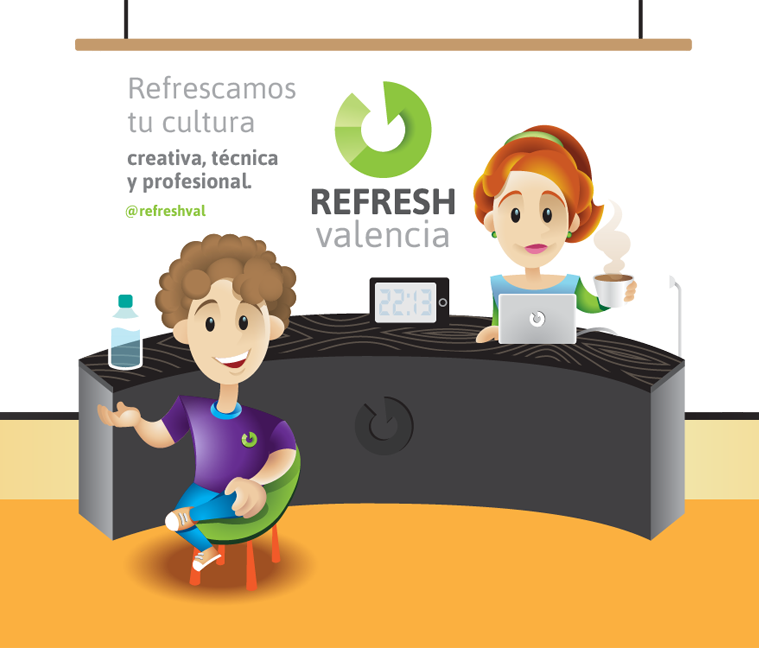
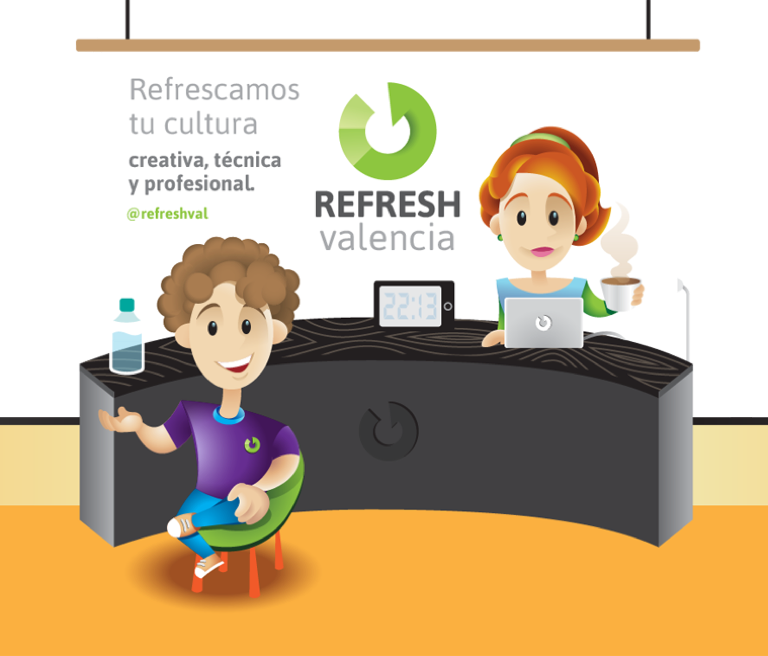
Media queries for mobile devices

diff --git a/css/custom.css b/css/custom.css
@@ -1,1 +1,1 @@
-html,body,div,span,applet,object,iframe,h1,h2,h3,h4,h5,h6,p,blockquote,pre,a,abbr,acronym,address,big,cite,code,del,dfn,em,img,ins,kbd,q,s,samp,small,strike,strong,sub,sup,tt,var,b,u,i,center,dl,dt,dd,ol,ul,li,fieldset,form,label,legend,table,caption,tbody,tfoot,thead,tr,th,td,article,aside,canvas,details,embed,figure,figcaption,footer,header,hgroup,menu,nav,output,ruby,section,summary,time,mark,audio,video{margin:0;padding:0;border:0;font-size:100%;font:inherit;vertical-align:baseline}article,aside,details,figcaption,figure,footer,header,hgroup,menu,nav,section{display:block}body{line-height:1}ol,ul{list-style:none}blockquote,q{quotes:none}blockquote:before,blockquote:after{content:'';content:none}q:before,q:after{content:'';content:none}table{border-collapse:collapse;border-spacing:0}*{box-sizing:border-box}.grid{margin:0 0 20px 0;overflow:hidden}[class*='cols-']{float:left;padding-right:20px}@media only screen and (max-width: 480px){[class*='cols-']{padding-right:0}}.grid [class*='cols-']:last-of-type{padding-right:0}.cols-2-3{width:66.66%}@media only screen and (max-width: 480px){.cols-2-3{width:100%}}.cols-1-3{width:33.33%}@media only screen and (max-width: 480px){.cols-1-3{width:100%}}.cols-1-2{width:50%}@media only screen and (max-width: 480px){.cols-1-2{width:100%}}.cols-1-4{width:25%}@media only screen and (max-width: 480px){.cols-1-4{width:100%}}.cols-2-4{width:50%}@media only screen and (max-width: 480px){.cols-2-4{width:100%}}.cols-1-1{width:100%}.container{padding:20px}.grid-pad{padding:20px 0 20px 20px}.grid-pad [class*='col-']:last-of-type{padding-right:20px}.button{padding:0 0.5em;height:1.50em;display:inline-block;font:normal 2.5em/1.5em "Bree Serif",Tahoma,Arial,serif;text-transform:uppercase;text-decoration:none;text-align:center;letter-spacing:0.2em;box-sizing:border-box;-webkit-border-radius:0.25em;-moz-border-radius:0.25em;border-radius:0.25em;background-color:black;color:white;cursor:pointer;width:100%}.button:hover{color:#000}.large{margin:14px auto 0;max-width:700px;height:60px;line-height:1.9em;font-size:2em;padding:0}.large img{height:50px;position:absolute;margin:0.15em 0 0 -3em}.medium{margin-top:1.4em;max-width:360px;box-shadow:0em 0.333em 0em #005919;filter:progid:DXImageTransform.Microsoft.dropshadow(OffX=0, OffY=4, Color='#005919', Positive='true')}@media only screen and (max-width: 1400px){.medium{max-width:308px}}@media only screen and (max-width: 1200px){.medium{max-width:266px}}@media only screen and (max-width: 1024px){.medium{max-width:220px;font-size:2em}}@media only screen and (max-width: 768px){.medium{max-width:135px;font-size:1.2em;margin-top:3em}}@media only screen and (max-width: 768px){.medium{margin:0 0.2em}}.small{max-width:220px;max-height:50px;font-size:1em}.green{background-color:#009B2D}.green:hover{background-color:#0ea93b}.orange{background:#fac695;background:-moz-linear-gradient(top, #fac695 0%, #f5ab66 47%, #ef8d31 100%);background:-webkit-gradient(linear, left top, left bottom, color-stop(0%, #fac695), color-stop(47%, #f5ab66), color-stop(100%, #ef8d31));background:-webkit-linear-gradient(top, #fac695 0%, #f5ab66 47%, #ef8d31 100%);background:-o-linear-gradient(top, #fac695 0%, #f5ab66 47%, #ef8d31 100%);background:-ms-linear-gradient(top, #fac695 0%, #f5ab66 47%, #ef8d31 100%);background:linear-gradient(to bottom, #fac695 0%, #f5ab66 47%, #ef8d31 100%);filter:progid:DXImageTransform.Microsoft.gradient(startColorstr='#fac695', endColorstr='#ef8d31',GradientType=0 );box-shadow:inset 0 1px 0 rgba(255,255,255,0.15),0 1px 3px rgba(0,0,0,0.3)}.orange:hover{background:#f9b97c;background:-moz-linear-gradient(top, #f9b97c 0%, #f49644 47%, #ed7e17 100%);background:-webkit-gradient(linear, left top, left bottom, color-stop(0%, #f9b97c), color-stop(47%, #f49644), color-stop(100%, #ed7e17));background:-webkit-linear-gradient(top, #f9b97c 0%, #f49644 47%, #ed7e17 100%);background:-o-linear-gradient(top, #f9b97c 0%, #f49644 47%, #ed7e17 100%);background:-ms-linear-gradient(top, #f9b97c 0%, #f49644 47%, #ed7e17 100%);background:linear-gradient(to bottom, #f9b97c 0%, #f49644 47%, #ed7e17 100%);filter:progid:DXImageTransform.Microsoft.gradient(startColorstr='#f9b97c', endColorstr='#ed7e17',GradientType=0 )}html,body{font-size:16px;background-color:#faf6f4;color:#352a25;font-family:"Fanwood Text", Times, serif;transitions:all 350ms easy-in-out}h2{font:normal 3.2em/1.1em "Titan One",Tahoma,Arial,serif}p,h3{font-size:1.2em;line-height:1.5em;color:#53423a;text-align:left}h3{font-size:2em;line-height:1.1em;margin:0.2em 0 0.5em}a{color:#b84d21;text-decoration:none}a:hover{color:#352a25}sup{font-size:0.6em;line-height:0;position:relative;top:-0.5em;vertical-align:baseline}#refresh-logo{background:url("../images/refresh-logo.png") no-repeat;background-size:cover;width:393px;height:146px;text-indent:-9999px}#refresh-logo:hover{opacity:0.8}@media only screen and (max-width: 768px){#refresh-logo{width:290px;height:107px}}@media only screen and (max-width: 480px){#refresh-logo{width:100%;margin:1em auto 0}}.social{position:relative;top:0.5em;right:6.5em;float:right}@media only screen and (max-width: 480px){.social{right:1.5em}}.social li{display:inline}.social .fb{background:url(../images/fb.png) no-repeat;height:32px;width:32px;float:left;margin-right:10px;text-indent:-9999px}.social .tw{background:url(../images/tw.png) no-repeat;height:32px;width:32px;float:left;text-indent:-9999px}header.container{padding-left:10em}@media only screen and (max-width: 480px){header.container{padding-left:0}}#illustration{background:#c64426 url("../images/refresh-nature.png") no-repeat;background-size:contain;height:520px;text-indent:-9999px;z-index:5}#illustration .refresh{width:100%;margin:0 auto;position:absolute}#illustration .refresh.stage{background:url("../images/refresh-stage.png") no-repeat;background-size:contain;height:500px;text-indent:-9999px;z-index:10}#illustration .refresh.people{background:url("../images/refresh-people.png") repeat-x;height:154px;margin:21em 0 0;text-indent:-9999px;z-index:15}.content{border-bottom:10px solid #EEC47A}#maps{height:400px;margin:0 auto;position:relative}#maps iframe{display:block;height:100%;width:100%;z-index:10}#maps p{background:#faf6f4;text-align:center;margin:-19em 0 0 34em;padding:0 20px 20px;position:relative;width:30%;z-index:15}@media only screen and (max-width: 800px){#maps p{margin:-19em 0 0 30em}}#maps p a{color:#faf6f4;display:block;text-align:center;text-shadow:0 1px 3px rgba(0,0,0,0.2)}#maps p a:hover{text-shadow:0 1px 3px rgba(0,0,0,0.5)}.spacer{margin:16px 0 0}.rules{background:url(../images/rules.png) no-repeat;width:100%;height:290px;background-size:cover;text-indent:-9999px}#agenda{padding-right:50px}#agenda li{border-bottom:1px dashed #352a25;font-size:1.5em;line-height:1.4em;margin:0 0 16px;padding:3px 0 14px 125px;position:relative}#agenda h6{background:url(../images/clock.png) 0 center no-repeat;font-size:0.87em;margin:0 0 5px;padding:0 0 0 35px;left:0;position:absolute;top:2px;text-transform:uppercase;font:bold 0.8em/1.9em "Helvetica Neue",Helvetica,Arial,serif}.sponsor li{width:100%;height:150px;padding:10px;background:#faf9f8;border:2px solid #e5ddda;width:23%;margin:0 2% 2% 0;float:left;display:block}.sponsor li:hover{background:#dbd0cb;border:2px solid #bba79e}.sponsor li img{width:100%;margin:1.2em auto}.pic-link{font-size:1.5em;padding-right:20px;line-height:2.5em}#main-footer{background:#352a25;height:130px;margin:0}#main-footer a:hover{color:#faf6f4}#main-footer h3{font-size:1.5em;color:#faf6f4}#main-footer p{font-size:1.1em;color:#faf6f4}.top-pointer{background:url(../images/arrow.png) no-repeat;position:absolute;right:10px;width:96px;height:96px;margin:-4.5em 0 0;text-indent:-9999px}.top-pointer:hover{opacity:0.8}
+html,body,div,span,applet,object,iframe,h1,h2,h3,h4,h5,h6,p,blockquote,pre,a,abbr,acronym,address,big,cite,code,del,dfn,em,img,ins,kbd,q,s,samp,small,strike,strong,sub,sup,tt,var,b,u,i,center,dl,dt,dd,ol,ul,li,fieldset,form,label,legend,table,caption,tbody,tfoot,thead,tr,th,td,article,aside,canvas,details,embed,figure,figcaption,footer,header,hgroup,menu,nav,output,ruby,section,summary,time,mark,audio,video{margin:0;padding:0;border:0;font-size:100%;font:inherit;vertical-align:baseline}article,aside,details,figcaption,figure,footer,header,hgroup,menu,nav,section{display:block}body{line-height:1}ol,ul{list-style:none}blockquote,q{quotes:none}blockquote:before,blockquote:after{content:'';content:none}q:before,q:after{content:'';content:none}table{border-collapse:collapse;border-spacing:0}*{box-sizing:border-box}.grid{margin:0 0 20px 0;overflow:hidden}[class*='cols-']{float:left;padding-right:20px}@media only screen and (max-width: 480px){[class*='cols-']{padding-right:0}}.grid [class*='cols-']:last-of-type{padding-right:0}.cols-2-3{width:66.66%}@media only screen and (max-width: 768px){.cols-2-3{width:100%}}.cols-1-3{width:33.33%}@media only screen and (max-width: 768px){.cols-1-3{width:100%}}.cols-1-2{width:50%}@media only screen and (max-width: 768px){.cols-1-2{width:100%}}.cols-1-4{width:25%}@media only screen and (max-width: 768px){.cols-1-4{width:100%}}.cols-2-4{width:50%}@media only screen and (max-width: 768px){.cols-2-4{width:100%}}.cols-1-1{width:100%}.container{padding:20px}.grid-pad{padding:20px 0 20px 20px}.grid-pad [class*='col-']:last-of-type{padding-right:20px}.button{padding:0 0.5em;height:1.50em;display:inline-block;font:normal 2.5em/1.5em "Bree Serif",Tahoma,Arial,serif;text-transform:uppercase;text-decoration:none;text-align:center;letter-spacing:0.2em;box-sizing:border-box;-webkit-border-radius:0.25em;-moz-border-radius:0.25em;border-radius:0.25em;background-color:black;color:white;cursor:pointer;width:100%}.button:hover{color:#000}.large{margin:14px auto 0;max-width:700px;height:60px;line-height:1.9em;font-size:2em;padding:0}.large img{height:50px;position:absolute;margin:0.15em 0 0 -3em}.medium{margin-top:1.4em;max-width:360px;box-shadow:0em 0.333em 0em #005919;filter:progid:DXImageTransform.Microsoft.dropshadow(OffX=0, OffY=4, Color='#005919', Positive='true')}@media only screen and (max-width: 1400px){.medium{max-width:308px}}@media only screen and (max-width: 1200px){.medium{max-width:266px}}@media only screen and (max-width: 1024px){.medium{max-width:220px;font-size:2em}}@media only screen and (max-width: 768px){.medium{max-width:135px;font-size:1.2em;margin-top:3em}}@media only screen and (max-width: 480px){.medium{margin:0 0.2em}}.small{max-width:220px;max-height:50px;font-size:1em}.green{background-color:#009B2D}.green:hover{background-color:#0ea93b}.orange{background:#fac695;background:-moz-linear-gradient(top, #fac695 0%, #f5ab66 47%, #ef8d31 100%);background:-webkit-gradient(linear, left top, left bottom, color-stop(0%, #fac695), color-stop(47%, #f5ab66), color-stop(100%, #ef8d31));background:-webkit-linear-gradient(top, #fac695 0%, #f5ab66 47%, #ef8d31 100%);background:-o-linear-gradient(top, #fac695 0%, #f5ab66 47%, #ef8d31 100%);background:-ms-linear-gradient(top, #fac695 0%, #f5ab66 47%, #ef8d31 100%);background:linear-gradient(to bottom, #fac695 0%, #f5ab66 47%, #ef8d31 100%);filter:progid:DXImageTransform.Microsoft.gradient(startColorstr='#fac695', endColorstr='#ef8d31',GradientType=0 );box-shadow:inset 0 1px 0 rgba(255,255,255,0.15),0 1px 3px rgba(0,0,0,0.3)}.orange:hover{background:#f9b97c;background:-moz-linear-gradient(top, #f9b97c 0%, #f49644 47%, #ed7e17 100%);background:-webkit-gradient(linear, left top, left bottom, color-stop(0%, #f9b97c), color-stop(47%, #f49644), color-stop(100%, #ed7e17));background:-webkit-linear-gradient(top, #f9b97c 0%, #f49644 47%, #ed7e17 100%);background:-o-linear-gradient(top, #f9b97c 0%, #f49644 47%, #ed7e17 100%);background:-ms-linear-gradient(top, #f9b97c 0%, #f49644 47%, #ed7e17 100%);background:linear-gradient(to bottom, #f9b97c 0%, #f49644 47%, #ed7e17 100%);filter:progid:DXImageTransform.Microsoft.gradient(startColorstr='#f9b97c', endColorstr='#ed7e17',GradientType=0 )}html,body{font-size:16px;background-color:#faf6f4;color:#352a25;font-family:"Fanwood Text", Times, serif;transitions:all 350ms easy-in-out}h2{font:normal 3.2em/1.1em "Titan One",Tahoma,Arial,serif}p,h3{font-size:1.2em;line-height:1.5em;color:#53423a;text-align:left}h3{font-size:2em;line-height:1.1em;margin:0.2em 0 0.5em}a{color:#b84d21;text-decoration:none}a:hover{color:#352a25}sup{font-size:0.6em;line-height:0;position:relative;top:-0.5em;vertical-align:baseline}#refresh-logo{background:url("../images/refresh-logo.png") no-repeat;background-size:cover;width:393px;height:146px;text-indent:-9999px}#refresh-logo:hover{opacity:0.8}@media only screen and (max-width: 768px){#refresh-logo{width:290px;height:107px}}@media only screen and (max-width: 480px){#refresh-logo{width:100%;margin:1em auto 0}}.social{position:relative;top:0.5em;right:6.5em;float:right}@media only screen and (max-width: 480px){.social{right:1.5em}}.social li{display:inline}.social .fb{background:url(../images/fb.png) no-repeat;height:32px;width:32px;float:left;margin-right:10px;text-indent:-9999px}.social .tw{background:url(../images/tw.png) no-repeat;height:32px;width:32px;float:left;text-indent:-9999px}header.container{padding-left:10em}@media only screen and (max-width: 768px){header.container{position:absolute;margin:-6.5em 26em;padding:20px 0 0;width:100%}}@media only screen and (max-width: 480px){header.container{padding-left:0}}#illustration{background:#c64426 url("../images/refresh-nature.png") no-repeat;background-size:contain;height:520px;text-indent:-9999px;z-index:5}@media only screen and (max-width: 768px){#illustration{background:#c64426 url("../images/refresh-nature-mini.png") no-repeat;height:700px}}@media only screen and (max-width: 480px){#illustration{background:#c64426 url("../images/refresh-nature-mini.png") no-repeat;background-size:cover;height:342px}}#illustration .refresh{width:100%;margin:0 auto;position:absolute}#illustration .refresh.stage{background:url("../images/refresh-stage.png") no-repeat;background-size:contain;height:500px;text-indent:-9999px;z-index:10}@media only screen and (max-width: 768px){#illustration .refresh.stage{background:url("../images/refresh-stage-mini.png") no-repeat;height:649px}}@media only screen and (max-width: 480px){#illustration .refresh.stage{background:url("../images/refresh-stage-mini.png") no-repeat;background-size:cover;height:342px}}#illustration .refresh.people{background:url("../images/refresh-people.png") repeat-x;height:154px;margin:21em 0 0;text-indent:-9999px;z-index:15}@media only screen and (max-width: 768px){#illustration .refresh.people{margin:32.5em 0 0}}@media only screen and (max-width: 480px){#illustration .refresh.people{display:none}}.content{border-bottom:10px solid #EEC47A}#maps{height:400px;margin:0 auto;position:relative}@media only screen and (max-width: 480px){#maps{height:500px}}#maps iframe{display:block;height:100%;width:100%;z-index:10}#maps p{background:#faf6f4;text-align:center;margin:-19em 0 0 34em;padding:0 20px 20px;position:relative;width:30%;z-index:15}@media only screen and (max-width: 1280px){#maps p{margin:-19em 0 0 30em}}@media only screen and (max-width: 768px){#maps p{margin:-19em 0 0 20em;width:50%}}@media only screen and (max-width: 480px){#maps p{margin:-24em 0 0 7em;width:65%}}#maps p a{color:#faf6f4;display:block;text-align:center;text-shadow:0 1px 3px rgba(0,0,0,0.2);margin:0 auto}#maps p a:hover{text-shadow:0 1px 3px rgba(0,0,0,0.5)}.spacer{margin:16px 0 0}.rules{background:url(../images/rules.png) no-repeat;width:100%;height:290px;background-size:cover;text-indent:-9999px}@media only screen and (max-width: 768px){.rules{height:457px}}@media only screen and (max-width: 480px){.rules{height:246px}}#agenda{padding-right:50px}#agenda li{border-bottom:1px dashed #352a25;font-size:1.5em;line-height:1.4em;margin:0 0 16px;padding:3px 0 14px 125px;position:relative}#agenda h6{background:url(../images/clock.png) 0 center no-repeat;font-size:0.87em;margin:0 0 5px;padding:0 0 0 35px;left:0;position:absolute;top:2px;text-transform:uppercase;font:bold 0.8em/1.9em "Helvetica Neue",Helvetica,Arial,serif}.sponsor li{height:150px;padding:10px;background:#faf9f8;border:2px solid #e5ddda;width:23%;margin:0 2% 2% 0;float:left;display:block}@media only screen and (max-width: 480px){.sponsor li{width:48%}}.sponsor li:hover{background:#dbd0cb;border:2px solid #bba79e}.sponsor li img{width:100%;margin:1.2em auto}@media only screen and (max-width: 480px){.sponsor li img{margin:2.5em auto}}.pic-link{font-size:1.5em;padding-right:20px;line-height:2.5em}@media only screen and (max-width: 480px){.pic-link{font-size:1.2em}}#main-footer{background:#352a25;height:130px;margin:0}#main-footer a:hover{color:#faf6f4}#main-footer h3{font-size:1.5em;color:#faf6f4}@media only screen and (max-width: 480px){#main-footer h3{font-size:1.3em}}#main-footer p{font-size:1.1em;color:#faf6f4}@media only screen and (max-width: 480px){#main-footer p{font-size:0.9em}}.top-pointer{background:url(../images/arrow.png) no-repeat;position:absolute;right:10px;width:96px;height:96px;margin:-4.5em 0 0;text-indent:-9999px}.top-pointer:hover{opacity:0.8}@media only screen and (max-width: 480px){.top-pointer{background-size:cover;width:48px;height:48px;margin:-2.5em 0 0}}

diff --git a/stylesheets/custom.scss b/stylesheets/custom.scss
@@ -96,6 +96,12 @@ sup{
 
 header.container{
 	padding-left: 10em;
+	@media only screen and (max-width:768px){
+		position: absolute;
+		margin: -6.5em 26em;
+		padding: 20px 0 0;
+		width: 100%;
+	}
 	@media only screen and (max-width: 480px){
 		padding-left: 0;
 	}
@@ -108,6 +114,15 @@ header.container{
 	height: 520px;
 	text-indent: -9999px;
 	z-index: 5;
+	@media only screen and (max-width: 768px){
+		background: #c64426 url('../images/refresh-nature-mini.png') no-repeat;
+		height: 700px;
+	}
+	@media only screen and (max-width: 480px){
+		background: #c64426 url('../images/refresh-nature-mini.png') no-repeat;
+		background-size: cover;
+		height: 342px;
+	}
 	//Refresh images
 	& .refresh{
 	width:100%;
@@ -119,6 +134,15 @@ header.container{
 			height: 500px;
 			text-indent: -9999px;
 			z-index: 10;
+			@media only screen and (max-width: 768px){
+				background: url('../images/refresh-stage-mini.png') no-repeat;
+				height: 649px;
+			}
+			@media only screen and (max-width: 480px){
+				background: url('../images/refresh-stage-mini.png') no-repeat;
+				background-size: cover;
+				height: 342px;
+			}
 		}
 		&.people{
 			background: url('../images/refresh-people.png') repeat-x;
@@ -126,6 +150,12 @@ header.container{
 			margin: 21em 0 0;
 			text-indent: -9999px;
 			z-index: 15;
+			@media only screen and (max-width: 768px){
+				margin: 32.5em 0 0;
+			}
+			@media only screen and (max-width: 480px){
+				display: none;
+			}
 		}
 	}
 }
@@ -140,6 +170,9 @@ header.container{
 	height: 400px;
 	margin: 0 auto;
 	position: relative;
+	@media only screen and (max-width: 480px){
+		height: 500px;
+	}
 	iframe{
 		display: block;
 		height: 100%;
@@ -154,14 +187,23 @@ header.container{
 		position: relative;
 		width: 30%;
 		z-index:15;
-		@media only screen and (max-width: 800px){
+		@media only screen and (max-width: 1280px){
 			margin: -19em 0 0 30em;
+		}
+		@media only screen and (max-width: 768px){
+			margin: -19em 0 0 20em;
+			width: 50%;
+		}
+		@media only screen and (max-width: 480px){
+			margin: -24em 0 0 7em;
+			width: 65%;
 		}
 		a{
 			color: $light-base;
 			display: block;
 			text-align: center;
 			text-shadow: 0 1px 3px rgba(0, 0, 0, 0.2);
+			margin: 0 auto;
 			&:hover{
 				text-shadow: 0 1px 3px rgba(0, 0, 0, 0.5);
 			}
@@ -179,6 +221,12 @@ header.container{
 	height: 290px;
 	background-size: cover;
 	text-indent: -9999px;
+	@media only screen and (max-width: 768px){
+		height: 457px;
+	}
+	@media only screen and (max-width: 480px){
+		height: 246px;
+	}
 }
 
 //agenda
@@ -213,7 +261,6 @@ header.container{
 
 //sponsors
 .sponsor li{
-	width: 100%;
 	height: 150px;
 	padding: 10px;
 	background: lighten($base, 80%);
@@ -222,6 +269,9 @@ header.container{
 	margin: 0 2% 2% 0;
 	float: left;
 	display: block;
+	@media only screen and (max-width:480px){
+		width: 48%;
+	}
 	&:hover{
 		background: lighten($base, 65%);
 		border: 2px solid lighten($base, 50%);
@@ -229,6 +279,9 @@ header.container{
 	img{
 		width: 100%;
 		margin: 1.2em auto;
+		@media only screen and (max-width: 480px){
+			margin: 2.5em auto;
+		}
 	}
 }
 
@@ -238,6 +291,9 @@ header.container{
 	font-size: 1.5em;
 	padding-right: 20px;
 	line-height: 2.5em;
+	@media only screen and (max-width:480px){
+		font-size: 1.2em;
+	}
 }
 
 //footer
@@ -252,10 +308,16 @@ header.container{
 	h3{
 		font-size: 1.5em;
 		color: $light-base;
+		@media only screen and (max-width:480px){
+			font-size: 1.3em;
+		}
 	}
 	p{
 		font-size: 1.1em;
 		color: $light-base;
+		@media only screen and (max-width:480px){
+			font-size: 0.9em;
+		}
 	}
 }
 
@@ -269,6 +331,12 @@ header.container{
 	text-indent: -9999px;
 	&:hover{
 		opacity:0.8;
+	}
+	@media only screen and (max-width:480px){
+		background-size: cover;
+		width: 48px;
+		height: 48px;
+		margin: -2.5em 0 0;
 	}
 }
 

diff --git a/stylesheets/_grid.scss b/stylesheets/_grid.scss
@@ -23,31 +23,31 @@ $pad: 20px;
 }
 .cols-2-3 {
 	width: 66.66%;
-	@media only screen and (max-width: 480px){
+	@media only screen and (max-width: 768px){
 		width:100%;
 	}
 }
 .cols-1-3 {
 	width: 33.33%;
-	@media only screen and (max-width: 480px){
+	@media only screen and (max-width: 768px){
 		width:100%;
 	}
 }
 .cols-1-2 {
 	width: 50%;
-	@media only screen and (max-width: 480px){
+	@media only screen and (max-width: 768px){
 		width:100%;
 	}
 }
 .cols-1-4 {
 	width: 25%;
-	@media only screen and (max-width: 480px){
+	@media only screen and (max-width: 768px){
 		width:100%;
 	}
 }
 .cols-2-4 {
 	width: 50%;
-	@media only screen and (max-width: 480px){
+	@media only screen and (max-width: 768px){
 		width:100%;
 	}
 }

diff --git a/stylesheets/_buttons.scss b/stylesheets/_buttons.scss
@@ -60,7 +60,7 @@
 		font-size: 1.2em;
 		margin-top: 3em;
 	}
-	@media only screen and (max-width: 768px){
+	@media only screen and (max-width: 480px){
 		margin: 0 0.2em;
 	}
 }
